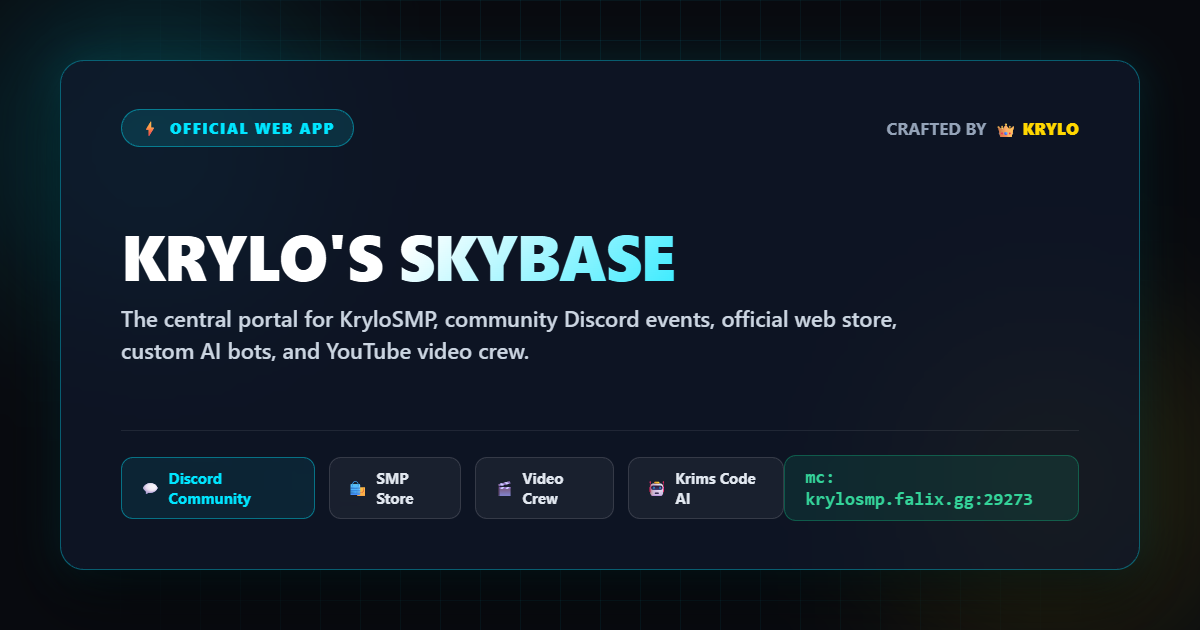
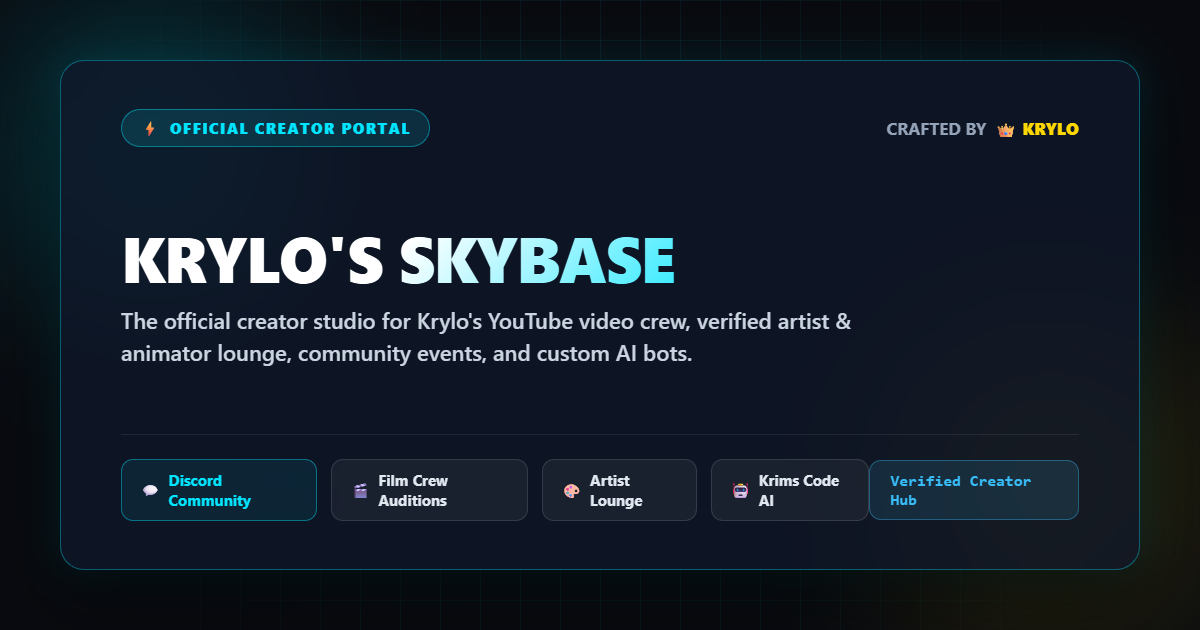
security: scrub all SMP and server IP references to ensure 100% private creator hub

diff --git a/index.html b/index.html
@@ -5,17 +5,17 @@
   <meta name="viewport" content="width=device-width, initial-scale=1.0">
   
   <!-- Primary Meta Tags -->
-  <title>Krylo's Skybase • Official Web App</title>
-  <meta name="title" content="Krylo's Skybase • Official Web App">
-  <meta name="description" content="The central portal for KryloSMP, community Discord events, official SMP web store, custom AI bots, and YouTube video crew. Crafted by Krylo.">
+  <title>Krylo's Skybase • Official Creator Hub</title>
+  <meta name="title" content="Krylo's Skybase • Official Creator Hub">
+  <meta name="description" content="The central community hub for Krylo's YouTube video crew, verified artist & animator lounge, and custom AI tools. Crafted by Krylo.">
   <meta name="author" content="Krylo">
 
   <!-- Discord & Open Graph / Facebook -->
   <meta property="og:type" content="website">
-  <meta property="og:url" content="https://krylos-skybase-web.vercel.app">
-  <meta property="og:title" content="Krylo's Skybase • Official Web App">
-  <meta property="og:description" content="The official community web hub for Krylo's Skybase & KryloSMP. Crafted with pride by Krylo.">
-  <meta property="og:image" content="https://krylos-skybase-web.vercel.app/og-banner.png">
+  <meta property="og:url" content="https://krylo-60.github.io/krylos-skybase-web/">
+  <meta property="og:title" content="Krylo's Skybase • Official Creator Hub">
+  <meta property="og:description" content="The central community hub for Krylo's YouTube video crew, verified artist & animator lounge, and custom AI tools. Crafted with pride by Krylo.">
+  <meta property="og:image" content="https://krylo-60.github.io/krylos-skybase-web/og-banner.png">
   <meta property="og:site_name" content="Krylo's Skybase">
 
   <!-- Discord Accent Color (Electric Cyan) -->
@@ -24,10 +24,10 @@
 
   <!-- Twitter / Discord Large Card -->
   <meta property="twitter:card" content="summary_large_image">
-  <meta property="twitter:url" content="https://krylos-skybase-web.vercel.app">
-  <meta property="twitter:title" content="Krylo's Skybase • Official Web App">
-  <meta property="twitter:description" content="Explore KryloSMP Minecraft Server, Discord Community, Web Store, and AI Bots. Built by Krylo.">
-  <meta property="twitter:image" content="https://krylos-skybase-web.vercel.app/og-banner.png">
+  <meta property="twitter:url" content="https://krylo-60.github.io/krylos-skybase-web/">
+  <meta property="twitter:title" content="Krylo's Skybase • Official Creator Hub">
+  <meta property="twitter:description" content="Official community portal for Krylo's YouTube projects, Film Crew, and creator lounge. Built by Krylo.">
+  <meta property="twitter:image" content="https://krylo-60.github.io/krylos-skybase-web/og-banner.png">
 
   <!-- Fonts & Icons -->
   <link rel="preconnect" href="https://fonts.googleapis.com">
@@ -261,8 +261,8 @@
       transform: translateY(-2px);
     }
 
-    /* Live Server Banner */
-    .server-card {
+    /* Creator Spotlight Banner */
+    .spotlight-card {
       margin: 30px auto 60px;
       background: var(--card-bg);
       border: 1px solid var(--border);
@@ -278,11 +278,11 @@
       transition: border-color 0.3s;
     }
 
-    .server-card:hover {
+    .spotlight-card:hover {
       border-color: var(--border-hover);
     }
 
-    .server-info {
+    .spotlight-info {
       display: flex;
       align-items: center;
       gap: 18px;
@@ -303,36 +303,18 @@
       100% { transform: scale(0.95); box-shadow: 0 0 0 0 rgba(16, 185, 129, 0); }
     }
 
-    .ip-box {
+    .studio-badge {
       font-family: 'JetBrains Mono', monospace;
-      font-size: 1.1rem;
+      font-size: 0.95rem;
       font-weight: 700;
       color: #38BDF8;
       background: rgba(15, 23, 42, 0.8);
-      border: 1px dashed rgba(56, 189, 248, 0.4);
+      border: 1px solid rgba(56, 189, 248, 0.4);
       padding: 10px 18px;
       border-radius: 10px;
       display: inline-flex;
       align-items: center;
-      gap: 12px;
-      user-select: all;
-    }
-
-    .copy-btn {
-      background: rgba(0, 229, 255, 0.15);
-      border: 1px solid var(--border);
-      color: var(--cyan);
-      padding: 10px 20px;
-      border-radius: 10px;
-      font-size: 0.9rem;
-      font-weight: 700;
-      cursor: pointer;
-      transition: all 0.2s;
-    }
-
-    .copy-btn:hover {
-      background: var(--cyan);
-      color: #07090E;
+      gap: 10px;
     }
 
     /* Grid Sections */
@@ -410,32 +392,10 @@
       text-decoration: none;
     }
 
-    /* Toast */
-    .toast {
-      position: fixed;
-      bottom: 24px;
-      right: 24px;
-      background: #10B981;
-      color: #FFFFFF;
-      padding: 12px 22px;
-      border-radius: 12px;
-      font-weight: 800;
-      font-size: 0.9rem;
-      display: none;
-      box-shadow: 0 10px 30px rgba(16, 185, 129, 0.4);
-      z-index: 100;
-      animation: fadeIn 0.3s;
-    }
-
-    @keyframes fadeIn {
-      from { opacity: 0; transform: translateY(10px); }
-      to { opacity: 1; transform: translateY(0); }
-    }
-
     @media (max-width: 768px) {
       .hero-title { font-size: 2.4rem; }
-      .server-card { flex-direction: column; text-align: center; }
-      .server-info { flex-direction: column; }
+      .spotlight-card { flex-direction: column; text-align: center; }
+      .spotlight-info { flex-direction: column; }
     }
   </style>
 </head>
@@ -454,7 +414,7 @@
         </div>
       </a>
       <div class="nav-badge">
-        <span>⚡</span> OFFICIAL WEB APP
+        <span>⚡</span> OFFICIAL CREATOR PORTAL
       </div>
     </div>
   </header>
@@ -467,31 +427,32 @@
       </div>
       <h2 class="hero-title">Welcome to Krylo's Skybase</h2>
       <p class="hero-subtitle">
-        The ultimate community & creator ecosystem. Play on KryloSMP, audition for upcoming YouTube video projects, and automate your server with custom AI bots.
+        The central community & content ecosystem. Audition for upcoming YouTube video projects, collaborate in our verified artist lounge, and experience custom server automation.
       </p>
 
       <div class="cta-group">
         <a href="https://discord.gg/1549875778575929446" target="_blank" class="btn btn-primary">
           <span>💬</span> Join Discord Community
         </a>
-        <a href="https://krylosmp-store.web.app/" target="_blank" class="btn btn-secondary">
-          <span>🛍</span> Official SMP Store
+        <a href="https://krims-bot-dashboard.vercel.app" target="_blank" class="btn btn-secondary">
+          <span>🤖</span> Bot Dashboard
         </a>
       </div>
     </section>
 
-    <!-- Minecraft Server Connect Card -->
-    <div class="server-card">
-      <div class="server-info">
+    <!-- Studio Status Spotlight -->
+    <div class="spotlight-card">
+      <div class="spotlight-info">
         <div class="status-dot"></div>
         <div>
-          <div style="font-size: 0.8rem; text-transform: uppercase; color: var(--emerald); font-weight: 800; letter-spacing: 1px; margin-bottom: 4px;">MINECRAFT SMP SERVER ONLINE</div>
-          <div style="font-size: 1.15rem; font-weight: 800; color: #FFFFFF;">KryloSMP: Vanilla+ SMP Adventure</div>
+          <div style="font-size: 0.8rem; text-transform: uppercase; color: var(--emerald); font-weight: 800; letter-spacing: 1px; margin-bottom: 4px;">OFFICIAL CREATOR STUDIO ACTIVE</div>
+          <div style="font-size: 1.15rem; font-weight: 800; color: #FFFFFF;">Krylo's Production Deck &amp; Video Forge</div>
         </div>
       </div>
-      <div style="display: flex; align-items: center; gap: 12px; flex-wrap: wrap;">
-        <div class="ip-box" id="server-ip-text">krylosmp.falix.gg:29273</div>
-        <button class="copy-btn" id="copy-btn" onclick="copyIp()">📋 Copy IP</button>
+      <div>
+        <div class="studio-badge">
+          <span>🎬</span> Auditions Open in Discord (#crew-apply)
+        </div>
       </div>
     </div>
 
@@ -503,7 +464,7 @@
           <div class="card-icon">👑</div>
           <h3 class="card-title">Skybase Community Hub</h3>
           <p class="card-desc">
-            A verified community with custom animated Super Reactions, exclusive artist lounges, live announcements, and direct creator chat.
+            A verified community with custom animated Super Reactions, exclusive member ranks, live announcements, and direct creator chat.
           </p>
         </div>
         <a href="https://discord.gg/1549875778575929446" target="_blank" class="card-link">
@@ -517,7 +478,7 @@
           <div class="card-icon">🎬</div>
           <h3 class="card-title">Skybase Film Crew</h3>
           <p class="card-desc">
-            Audition for Krylo's next big YouTube videos, SMP cinematics, and event recordings inside the private Film Crew deck.
+            Audition for Krylo's upcoming YouTube videos, cinematic recordings, and private creator sessions inside our private crew lounge.
           </p>
         </div>
         <a href="https://discord.gg/1549875778575929446" target="_blank" class="card-link">
@@ -525,21 +486,21 @@
         </a>
       </div>
 
-      <!-- Card 3: SMP Store -->
+      <!-- Card 3: Artist & Animator Lounge -->
       <div class="feature-card">
         <div>
-          <div class="card-icon">💎</div>
-          <h3 class="card-title">Official SMP Web Store</h3>
+          <div class="card-icon">🎨</div>
+          <h3 class="card-title">Artist &amp; Animator Lounge</h3>
           <p class="card-desc">
-            Unlock server ranks, rare crate keys, custom particle trails, and cosmetic perks with real money or in-game KryloCoins.
+            Exclusive studio reserved for verified emoji artists and GIF animators to shape future server emotes and channel artwork.
           </p>
         </div>
-        <a href="https://krylosmp-store.web.app/" target="_blank" class="card-link">
-          Visit Web Store →
+        <a href="https://discord.gg/1549875778575929446" target="_blank" class="card-link">
+          Explore Creator Lounge →
         </a>
       </div>
 
-      <!-- Card 4: Krims Code AI & Custom Bots -->
+      <!-- Card 4: Krims Code AI Suite -->
       <div class="feature-card">
         <div>
           <div class="card-icon">🤖</div>
@@ -566,17 +527,5 @@
       </p>
     </div>
   </footer>
-
-  <div class="toast" id="toast">✅ Server IP Copied! Join krylosmp.falix.gg:29273</div>
-
-  <script>
-    function copyIp() {
-      navigator.clipboard.writeText('krylosmp.falix.gg:29273').then(() => {
-        const toast = document.getElementById('toast');
-        toast.style.display = 'block';
-        setTimeout(() => { toast.style.display = 'none'; }, 2500);
-      });
-    }
-  </script>
 </body>
 </html>

diff --git a/README.md b/README.md
@@ -1,4 +1,4 @@
-# 👑 Krylo's Skybase • Official Web App
+# 👑 Krylo's Skybase • Official Creator Hub
 
 <div align="center">
   <img src="./og-banner.png" alt="Krylo's Skybase Web App Banner" width="100%" style="border-radius: 16px; border: 1px solid rgba(0, 229, 255, 0.4);" />
@@ -11,21 +11,22 @@
   <a href="https://discord.gg/1549875778575929446">
     <img src="https://img.shields.io/badge/%F0%9F%92%AC%20Discord-Krylo's%20Skybase-5865F2?style=for-the-badge&labelColor=07090e" alt="Discord" />
   </a>
-  <a href="https://krylosmp.falix.gg:29273">
-    <img src="https://img.shields.io/badge/%F0%9F%8E%AE%20Minecraft-krylosmp.falix.gg-10b981?style=for-the-badge&labelColor=07090e" alt="Minecraft SMP" />
+  <a href="https://krims-bot-dashboard.vercel.app">
+    <img src="https://img.shields.io/badge/%F0%9F%A4%96%20Bot%20Suite-Krims%20AI-7000ff?style=for-the-badge&labelColor=07090e" alt="Bot Suite" />
   </a>
 </div>
 
 ---
 
 ## ⚡ Overview
-The official community web hub and creator portal for **Krylo's Skybase** and **KryloSMP**.
+The official community web hub and creator portal for **Krylo's Skybase**.
 Built from the ground up with native Discord Open Graph (OG) integration for rich visual preview cards.
 
 ## 🌟 Key Features
 - **Discord Rich Embeds:** Complete Open Graph metadata (`og:title`, `og:image`, `theme-color: #00E5FF`).
-- **Minecraft Server Integration:** 1-Click IP copying for `krylosmp.falix.gg:29273`.
-- **Ecosystem Portals:** Quick access to the Official Web Store, Krims Code AI Bot Dashboard, and Film Crew Auditions.
+- **Creator Studio Hub:** Direct access to YouTube Film Crew Auditions and Casting Calls.
+- **Verified Artist Lounge:** Studio for community emoji and sticker creators.
+- **Krims Code AI Hub:** Bot command reference, leveling stats, and custom bot tools.
 - **Ultra-Lightweight & Fast:** Responsive, zero bloat, mobile-optimized glassmorphism UI.
 
 ---
